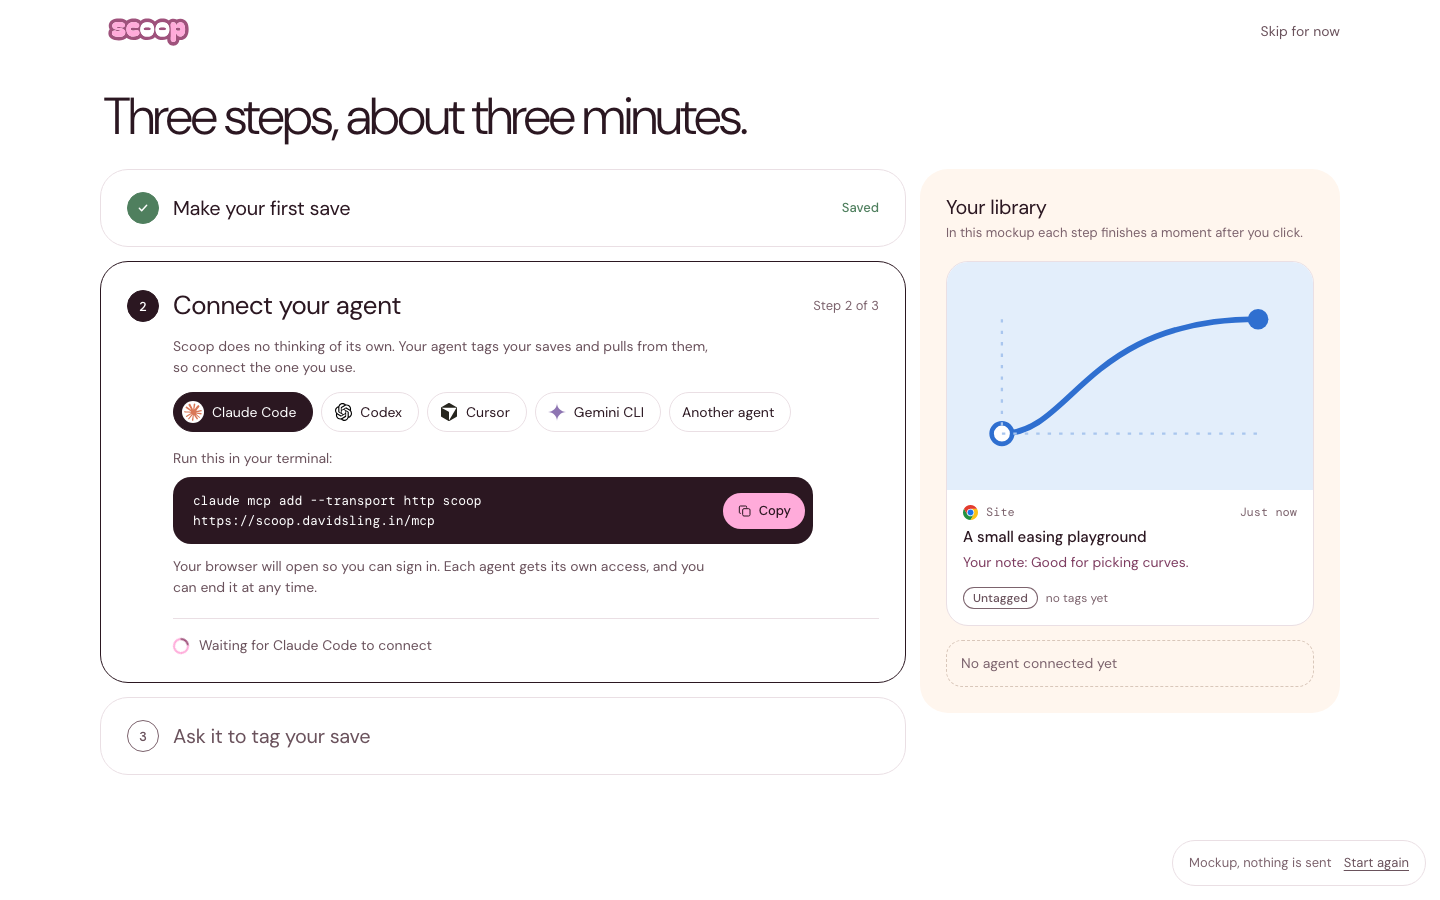
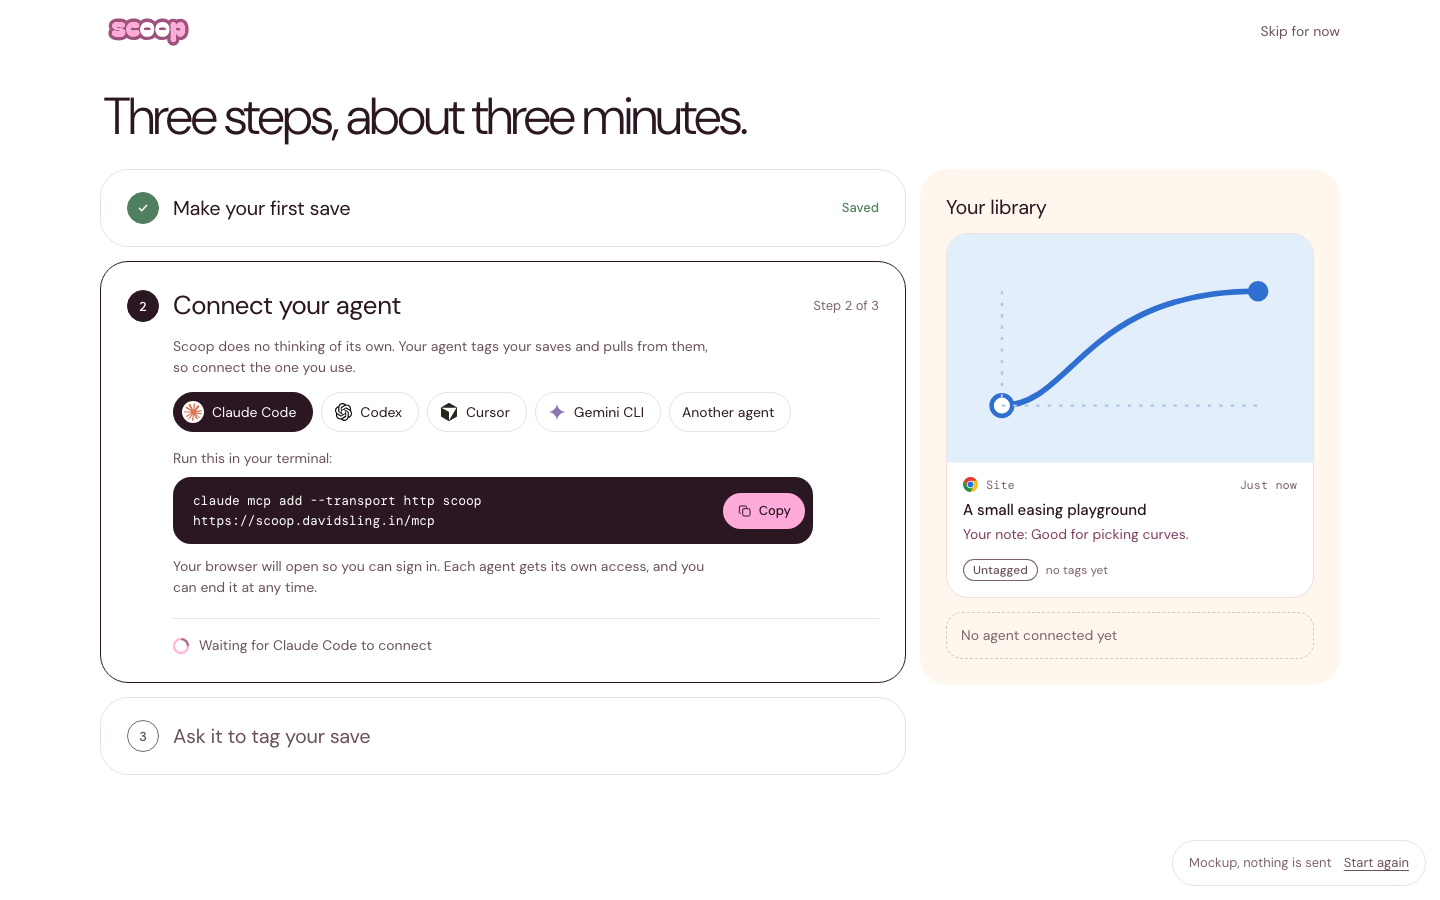
fix: drop the mockup caption from the live panel

Changed region(s): [[0.6562, 0.2489, 0.9375, 0.7467]]

diff --git a/mockups/onboarding.html b/mockups/onboarding.html
@@ -174,7 +174,7 @@
 
   function liveHTML(final) {
     var a = AG[st.agent];
-    var h = '<h2>Your library</h2><p class="cap">' + (final ? '1 save, tagged a moment ago.' : 'In this mockup each step finishes a moment after you click.') + '</p>';
+    var h = '<h2>Your library</h2>' + (final ? '<p class="cap">1 save, tagged a moment ago.</p>' : '<p class="cap" style="margin-bottom:14px"></p>');
     h += st.saved ? $('#t-card').innerHTML : $('#t-ghost').innerHTML;
     h += st.connected
       ? '<div class="conn">' + (a.icon ? '<img class="b" src="' + a.icon + '" alt="">' : '') + cap(a.name) + '<span class="chip plain ok">Connected</span></div>'
